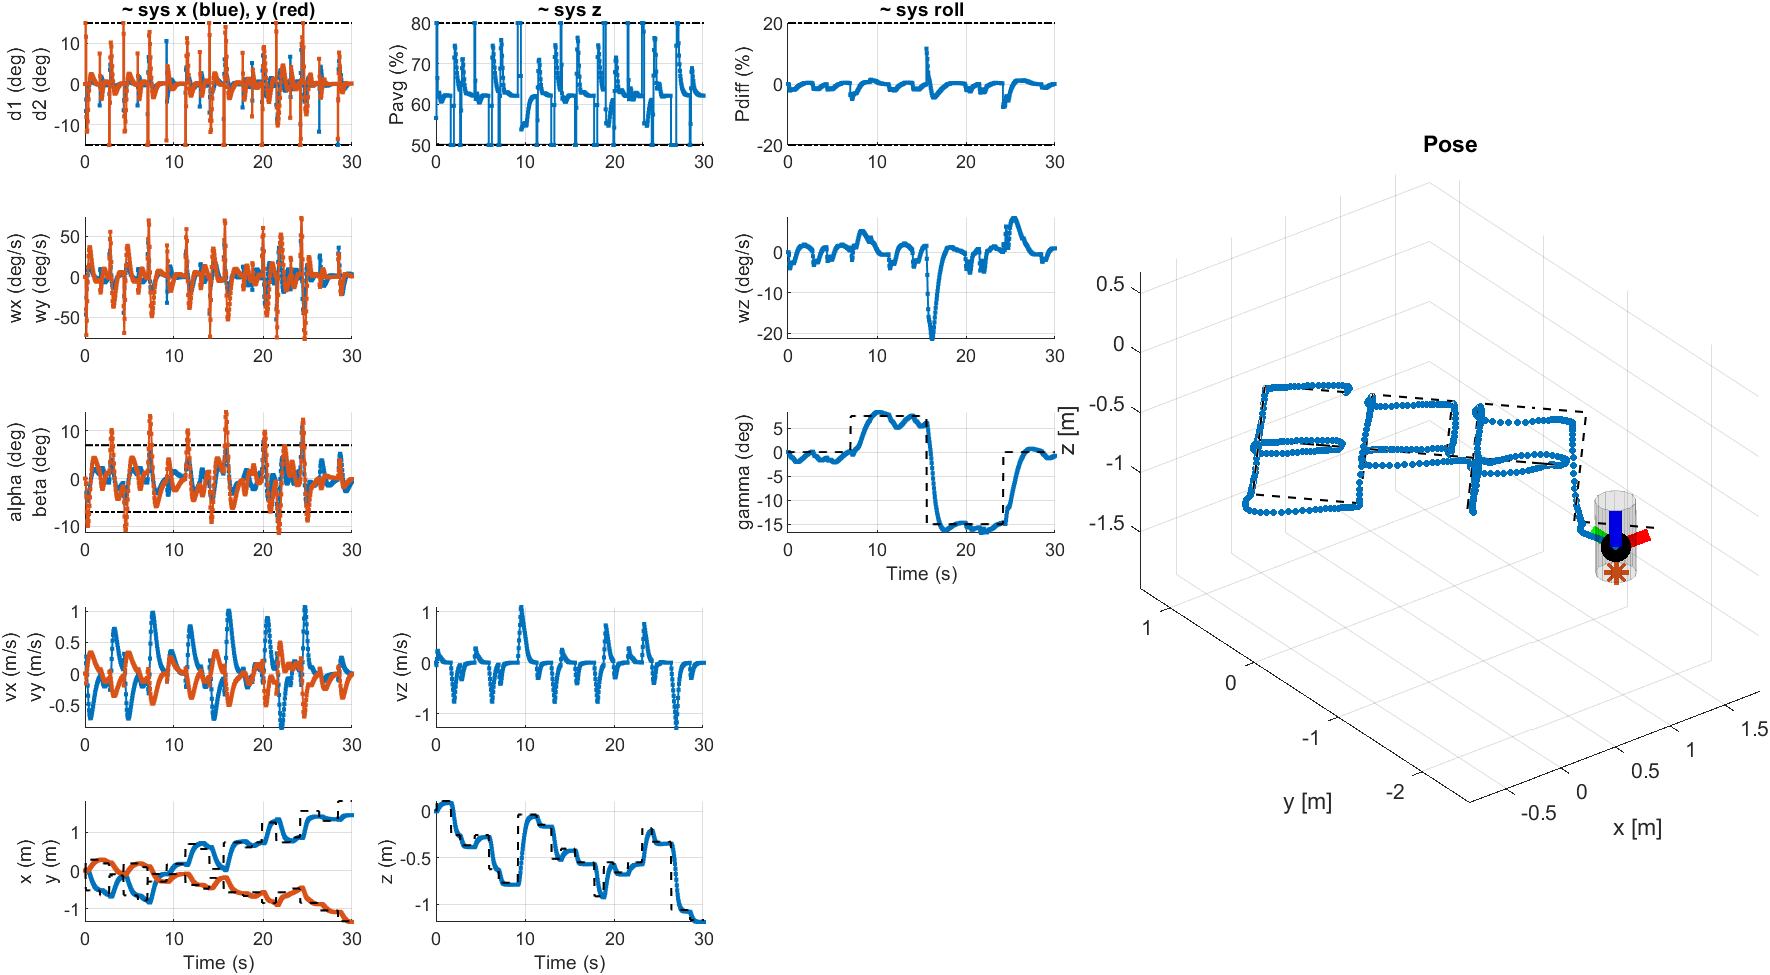
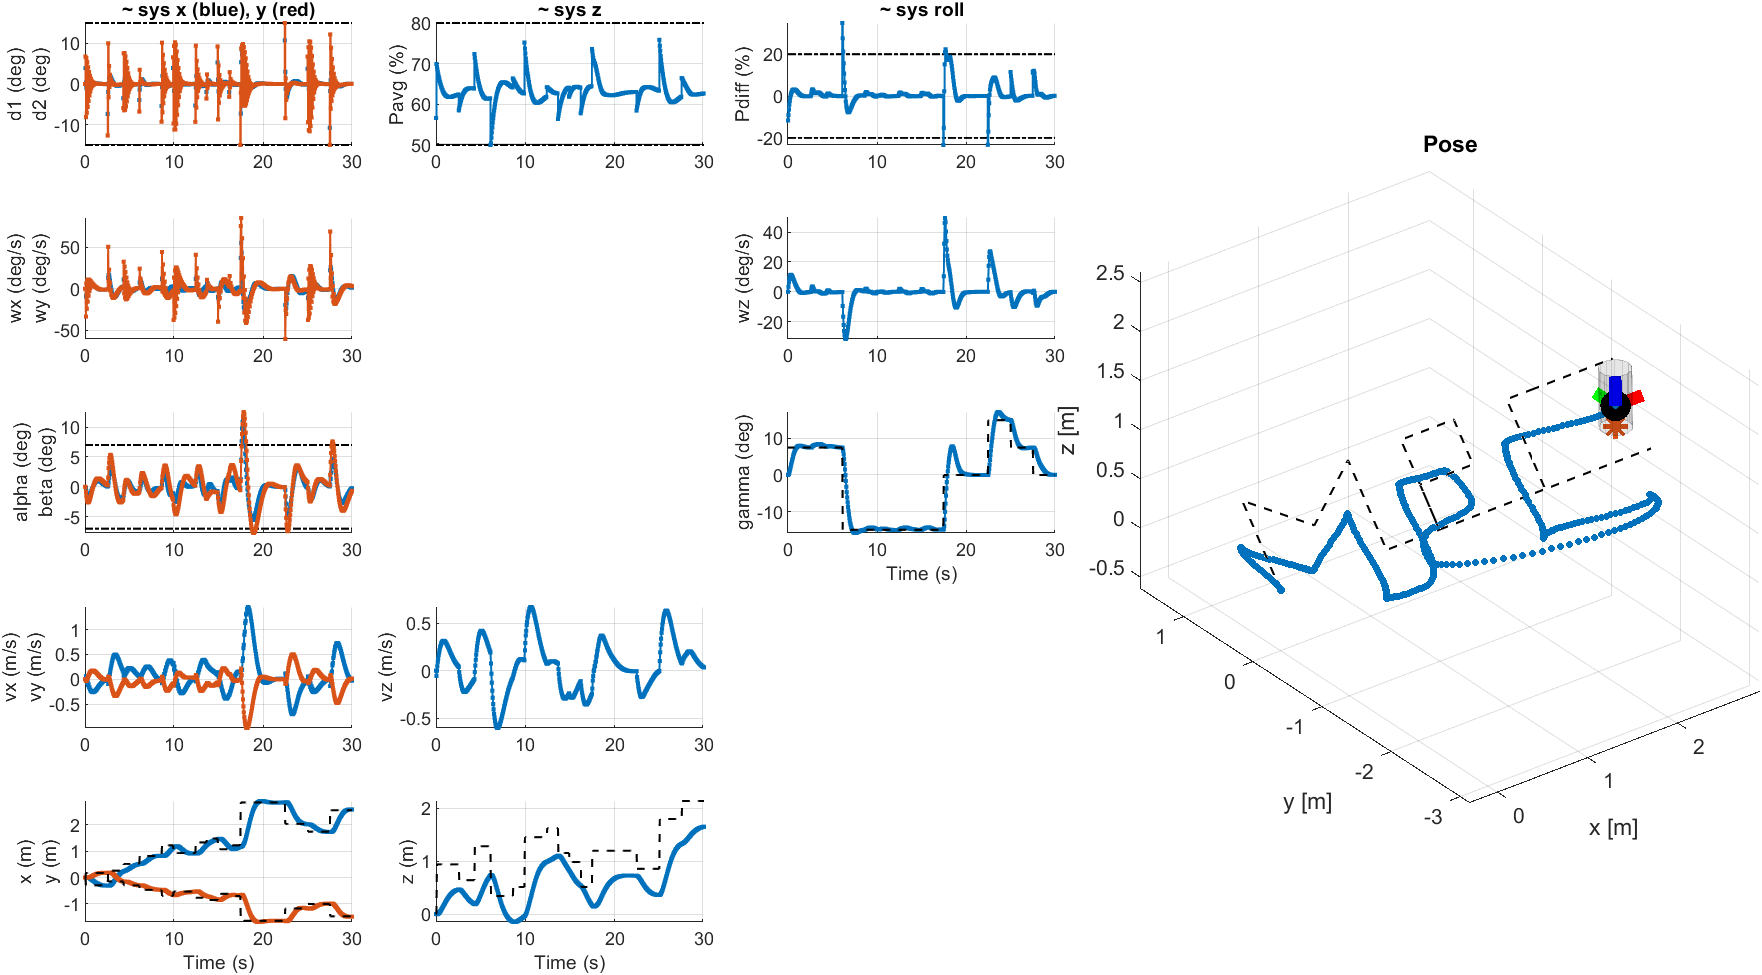
aie aie aie

diff --git a/rocket_project/Deliverable_4_2/MpcControl_x.m b/rocket_project/Deliverable_4_2/MpcControl_x.m
@@ -41,26 +41,26 @@ classdef MpcControl_x < MpcControlBase
 
             % costs for the LQR controller
             Q = eye(nx);
-%             Q(3,3) = Q(3,3)*0.2;  % speed
-            Q(4,4) = Q(4,4)*10;     % position
+            Q(3,3) = Q(3,3)*0.2;  % speed
+            Q(4,4) = Q(4,4)*2;     % position
 
-            R = 0.001*eye(nu);
+            R = 1*eye(nu);
             S = 1*eye(2);         % slack - doesn't seem to do a diff with 1 or 100
            
             % K is the LQR controller, P is the final cost
             [K,Pf,~] = dlqr(mpc.A, mpc.B, Q, R);
-            K = -K;
-            Ak = mpc.A+mpc.B*K;
+%             K = -K;
+%             Ak = mpc.A+mpc.B*K;
 
             % the combined constraints of state and input with controller K
             % in closed loop
-            Hxu = [Hx; Hu*K];
-            hxu = [hx; hu];
+%             Hxu = [Hx; Hu*K];
+%             hxu = [hx; hu];
 
             % the terminal set of the controller K in closed loop
-            Poly_xu = polytope(Hxu, hxu);
-            term_set = max_contr_invar_set(Poly_xu,Ak);
-            [Hxf, hxf] = double(term_set); % terminal constraint
+%             Poly_xu = polytope(Hxu, hxu);
+%             term_set = max_contr_invar_set(Poly_xu,Ak);
+%             [Hxf, hxf] = double(term_set); % terminal constraint
 
             % SET THE PROBLEM CONSTRAINTS con AND THE OBJECTIVE obj HERE
             obj = 0;
@@ -73,7 +73,7 @@ classdef MpcControl_x < MpcControlBase
                 obj   = obj + (X(:,k)-x_ref)'*Q*(X(:,k)-x_ref) + (U(:,k)-u_ref)'*R*(U(:,k)-u_ref) + E(:,k)'*S*E(:,k);
             end
             obj = obj + (X(:,N)-x_ref)'*Pf*(X(:,N)-x_ref);
-            con = [con, Hxf*X(:,N) <= hxf];
+%             con = [con, Hxf*X(:,N) <= hxf+Hxf*x_ref];
             
             % YOUR CODE HERE YOUR CODE HERE YOUR CODE HERE YOUR CODE HERE
             %%%%%%%%%%%%%%%%%%%%%%%%%%%%%%%%%%%%%%%%%%%%%%%%%%%%%%%%%%%%%%%

diff --git a/rocket_project/src/ref_MPC.m b/rocket_project/src/ref_MPC.m
@@ -1,0 +1,65 @@
+%
+% Trace out an EPFL in ref_time seconds
+%
+function Ref4 = ref_EPFL(t, roll_max, tilt)
+
+ref_time = 30;
+
+if nargin < 2
+    roll_max = deg2rad(15);
+end
+if nargin < 3
+    tilt = true;
+end
+
+% Coordinates (x, y, heading)
+ coords = [ ...
+                0 0  45; 0 2  45; 1 1  45; 2 2  45; 2 0 -90;          % 'M'
+                3 0 -90; 3 2 -90; 4 2 -90; 4 1 -90; 3 1 -90; 3 0 -90; % 'P'
+                7 0 0; 5 0 90; 5 2 45; 7 2 0];                        % 'C'
+            coords(:,1:2) = coords(:,1:2) / 2;
+            coords(:,3) = coords(:,3) * rad2deg(roll_max)/90;
+            
+            nCoords = size(coords, 1);
+
+% Break the path into legs, compute their end times such that
+% the end of the path is reached at ref_time
+legs = coords(2:end,1:2) - coords(1:end-1,1:2);
+distances = vecnorm(legs, 2, 2);
+leg_endtimes = [0; ref_time * cumsum(distances) / sum(distances)]';
+
+% Find target index for each time point
+target_id = sum(t(:) > leg_endtimes, 2) + 1;
+% Limit target_id to final point
+target_id = min(nCoords, target_id);
+
+% % Return target coordinates for each time point
+% XZ = [coords(target_id, 1:2)];
+% XYZ = [XZ(1), 0, XZ(2)];
+% Roll = deg2rad(coords(target_id,3));
+% 
+% if tilt
+%     % Rotate
+%     alpha = deg2rad(-15);
+%     beta = deg2rad(19);
+%     gamma = deg2rad(-24);
+%     
+%     T = Rocket.eul2mat([alpha, beta, gamma]);
+%     XYZ = (T * XYZ')';
+% end
+% Ref4 = [XYZ, Roll]; % 4D X 0 Z roll
+  % Return target coordinates for each time point
+XZ = coords(target_id,1:2);
+Roll = deg2rad(coords(target_id,3));
+Ref4 = [XZ(:,1), 0, XZ(:,2), Roll]; % 4D X 0 Z roll
+
+% Rotate about x axis
+if tilt
+    alpha = deg2rad(20);
+    XZ = ([cos(alpha) -sin(alpha); sin(alpha) cos(alpha)] * XZ')';
+    
+    % Rotate about z axis
+    gamma = deg2rad(-30);
+    Ref4 = [cos(gamma) * XZ(:,1), sin(gamma) * XZ(:,1), XZ(:,2), Roll]; % 4D X 0 Z roll
+end
+end

diff --git a/rocket_project/Deliverable_4_2/MpcControl_y.m b/rocket_project/Deliverable_4_2/MpcControl_y.m
@@ -42,25 +42,25 @@ classdef MpcControl_y < MpcControlBase
 
             % costs for the LQR controller
             Q = eye(nx);
-%             Q(3,3) = Q(3,3)*0.2;  % speed
-            Q(4,4) = Q(4,4)*10;     % position
-            R = 0.001*eye(nu);
+            Q(3,3) = Q(3,3)*0.2;  % speed
+            Q(4,4) = Q(4,4)*2;     % position
+            R = 1*eye(nu);
             S = 1*eye(2);           % slack - doesn't seem to do a diff with 1 or 100
           
             % K is the LQR controller, P is the final cost
             [K,Pf,~] = dlqr(mpc.A, mpc.B, Q, R);
-            K = -K;
-            Ak = mpc.A+mpc.B*K;
+%             K = -K;
+%             Ak = mpc.A+mpc.B*K;
 
             % the combined constraints of state and input with controller K
             % in closed loop
-            Hxu = [Hx; Hu*K];
-            hxu = [hx; hu];
+%             Hxu = [Hx; Hu*K];
+%             hxu = [hx; hu];
 
             % the terminal set of the controller K in closed loop
-            Poly_xu = polytope(Hxu, hxu);
-            term_set = max_contr_invar_set(Poly_xu, Ak);
-            [Hxf, hxf] = double(term_set); % terminal constraint
+%             Poly_xu = polytope(Hxu, hxu);
+%             term_set = max_contr_invar_set(Poly_xu, Ak);
+%             [Hxf, hxf] = double(term_set); % terminal constraint
 
             % SET THE PROBLEM CONSTRAINTS con AND THE OBJECTIVE obj HERE
             obj = 0;
@@ -73,7 +73,7 @@ classdef MpcControl_y < MpcControlBase
                 obj   = obj + (X(:,k)-x_ref)'*Q*(X(:,k)-x_ref) + (U(:,k)-u_ref)'*R*(U(:,k)-u_ref) + E(:,k)'*S*E(:,k);
             end
             obj = obj + (X(:,N)-x_ref)'*Pf*(X(:,N)-x_ref);
-            con = [con, Hxf*X(:,N) <= hxf];
+%             con = [con, Hxf*X(:,N) <= hxf+Hxf*x_ref];
            
             
             % YOUR CODE HERE YOUR CODE HERE YOUR CODE HERE YOUR CODE HERE

diff --git a/rocket_project/Deliverable_4_2/MpcControl_z.m b/rocket_project/Deliverable_4_2/MpcControl_z.m
@@ -52,10 +52,10 @@ classdef MpcControl_z < MpcControlBase
 
             % costs for the LQR controller
             Q = eye(nx);
-            Q(1,1) = Q(1,1)*10;      % speed
-            Q(2,2) = Q(2,2)*200;     % position
+            Q(1,1) = Q(1,1)*0.2;      % speed
+            Q(2,2) = Q(2,2)*2;     % position
             R = eye(nu);
-            R(1,1) = 0.001;
+            R(1,1) = 0.01;
 
 %             % K is the LQR controller, P is the final cost
             [K,Pf,~] = dlqr(mpc.A, mpc.B, Q, R);
@@ -63,7 +63,7 @@ classdef MpcControl_z < MpcControlBase
 %             Ak = mpc.A+mpc.B*K;
 
             % the combined constraints of state and input with controller K
-            % in closed loop
+%             in closed loop
 %             Hxu = Hu*K;
 %             hxu = hu;
 
@@ -81,7 +81,7 @@ classdef MpcControl_z < MpcControlBase
                 con = [con, Hu*U(:,k) <= hu];
                 obj   = obj + (X(:,k)-x_ref)'*Q*(X(:,k)-x_ref) + (U(:,k)-u_ref)'*R*(U(:,k)-u_ref);
             end
-%             obj = obj + (X(:,N)-x_ref)'*Pf*(X(:,N)-x_ref);
+            obj = obj + (X(:,N)-x_ref)'*Pf*(X(:,N)-x_ref);
 %             con = [con, Hxf*X(:,N) <= hxf];
             
             % YOUR CODE HERE YOUR CODE HERE YOUR CODE HERE YOUR CODE HERE

diff --git a/rocket_project/Deliverable_4_1/MpcControl_y.m b/rocket_project/Deliverable_4_1/MpcControl_y.m
@@ -39,10 +39,11 @@ classdef MpcControl_y < MpcControlBase
             hu = [deg2rad(15); deg2rad(15)]; % constraint on the input d1
 
             % costs for the LQR controller
-            Q = 1*eye(nx);
-            Q(4,4) = Q(4,4)*1;
-            Q(3,3) = Q(3,3)*0.2;
-            R = eye(nu);
+            Q = eye(nx);
+            Q(1,1) = Q(1,1)*0.5;
+%             Q(3,3) = Q(3,3)*0.2;  % speed
+            Q(4,4) = Q(4,4)*10;     % position
+            R = 50*eye(nu);
 
             % K is the LQR controller, P is the final cost
             [K,Pf,~] = dlqr(mpc.A, mpc.B, Q, R);

diff --git a/rocket_project/Deliverable_4_1/MpcControl_x.m b/rocket_project/Deliverable_4_1/MpcControl_x.m
@@ -39,10 +39,13 @@ classdef MpcControl_x < MpcControlBase
             hu = [deg2rad(15); deg2rad(15)];
 
             % costs for the LQR controller
-            Q = 1*eye(nx);
-            Q(3,3) = Q(3,3)*0.2;
-            Q(4,4) = Q(4,4)*1;
-            R = eye(nu);
+            Q = eye(nx);
+            Q(1,1) = Q(1,1)*0.5;
+%             Q(3,3) = Q(3,3)*0.2;  % speed
+            Q(4,4) = Q(4,4)*10;     % position
+
+            R = 50*eye(nu);
+   
 
             % K is the LQR controller, P is the final cost
             [K,Pf,~] = dlqr(mpc.A, mpc.B, Q, R);

diff --git a/rocket_project/Deliverable_4_1/MpcControl_z.m b/rocket_project/Deliverable_4_1/MpcControl_z.m
@@ -51,10 +51,11 @@ classdef MpcControl_z < MpcControlBase
             hu = [80-56.66667; -(50-56.66667)];
 
             % costs for the LQR controller
-            Q = 10.*eye(nx);
-            Q(2,2) = Q(2,2)*50;
-            Q(1,1) = Q(1,1);
-            R = 0.1*eye(nu);
+            Q = eye(nx);
+            Q(1,1) = Q(1,1)*1;      % speed
+            Q(2,2) = Q(2,2)*20;     % position
+            R = eye(nu);
+            R(1,1) = 0.0001;
 
             % K is the LQR controller, P is the final cost
             [K,Pf,~] = dlqr(mpc.A, mpc.B, Q, R);

diff --git a/rocket_project/Deliverable_4_2/Deliverable_4_2.m b/rocket_project/Deliverable_4_2/Deliverable_4_2.m
@@ -13,7 +13,7 @@ clear; close all;
 %% This file should produce all the plots for the deliverable
 
 Ts = 1/20; % Sample time
-H = 1; % Horizon length in seconds
+H = 4; % Horizon length in seconds
 % for H<3 there is overshoot
 
 rocket = Rocket(Ts);
@@ -44,7 +44,8 @@ mpc = rocket.merge_lin_controllers(xs, us, mpc_x, mpc_y, mpc_z, mpc_roll);
 % ph = rocket.plotvis(T_opt, X_opt, U_opt, ref4); % Plot as usual
 
 % Setup reference function
-ref = @(t_, x_) ref_EPFL(t_);
+% ref = @(t_, x_) ref_EPFL(t_);
+ref = @(t_, x_) ref_MPC(t_);
 
 % Simulate
 Tf = 30;

diff --git a/rocket_project/Deliverable_4_1/MpcControl_roll.m b/rocket_project/Deliverable_4_1/MpcControl_roll.m
@@ -33,9 +33,13 @@ classdef MpcControl_roll < MpcControlBase
             %       the DISCRETE-TIME MODEL of your system
             
             % SET THE PROBLEM CONSTRAINTS con AND THE OBJECTIVE obj HERE
-            Q = 10*eye(nx);
-            Q(2,2) = 10*Q(2,2);
+            Q = eye(nx);
+            Q(1,1) = Q(1,1)*1;     % speed
+            Q(2,2) = Q(2,2)*10;     % position
             R = eye(nu);
+            R(1,1) = 0.001;
+
+
             [~,Pf,~] = dlqr(mpc.A, mpc.B, Q, R);
             obj = 0;
             con = [];

diff --git a/rocket_project/Deliverable_4_2/MpcControl_roll.m b/rocket_project/Deliverable_4_2/MpcControl_roll.m
@@ -35,7 +35,7 @@ classdef MpcControl_roll < MpcControlBase
             % SET THE PROBLEM CONSTRAINTS con AND THE OBJECTIVE obj HERE
             Q = eye(nx);
             Q(1,1) = Q(1,1)*1;     % speed
-            Q(2,2) = Q(2,2)*10;     % position
+            Q(2,2) = Q(2,2)*100;     % position
             R = eye(nu);
             R(1,1) = 0.01;
 
